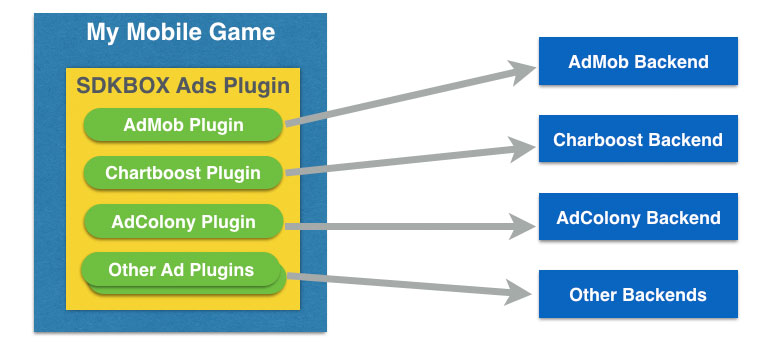
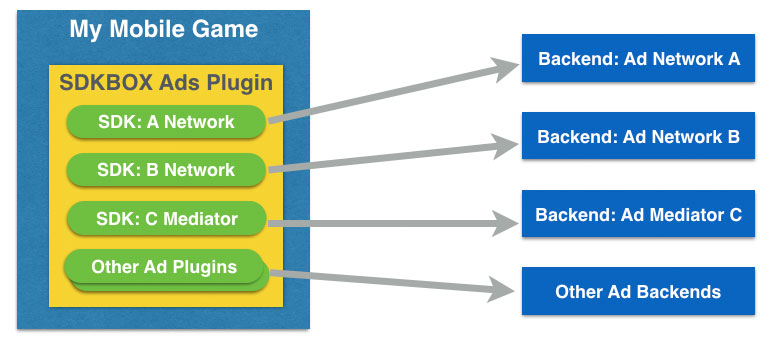
updated ads diagram

Changed region(s): [[0.0, 0.0291, 0.9834, 0.9884]]

diff --git a/src/sdkboxads/index.md b/src/sdkboxads/index.md
@@ -5,7 +5,7 @@
 ##Overview
 While Sdkbox includes out-of-the-box support for many ad networks, they can be managed in a container plugin called SdkboxAds. It is like a __manager__ of a collection of different ad plugins, while each ad plugin connects to its own backend independentely. 
 
-![](../../imgs/sdkbox-ads-1.jpg)
+![](../../imgs/sdkbox-ads-1.jpg?1)
 
 SdkboxAds is an alternative method compared to calling any ad networks directly. SdkboxAds includes support for playing ads and rewarded contents, as well as the definition of placements. Before digging deeper into its internals, some concepts must be clarified.
 
